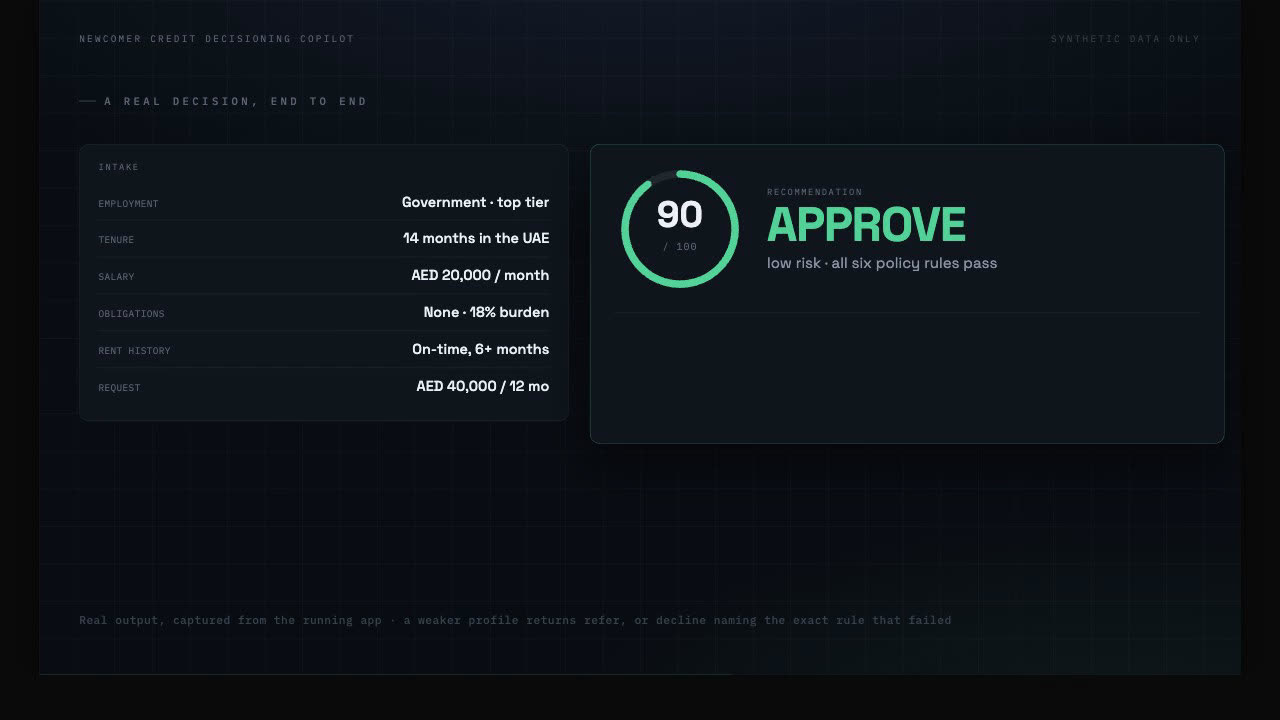
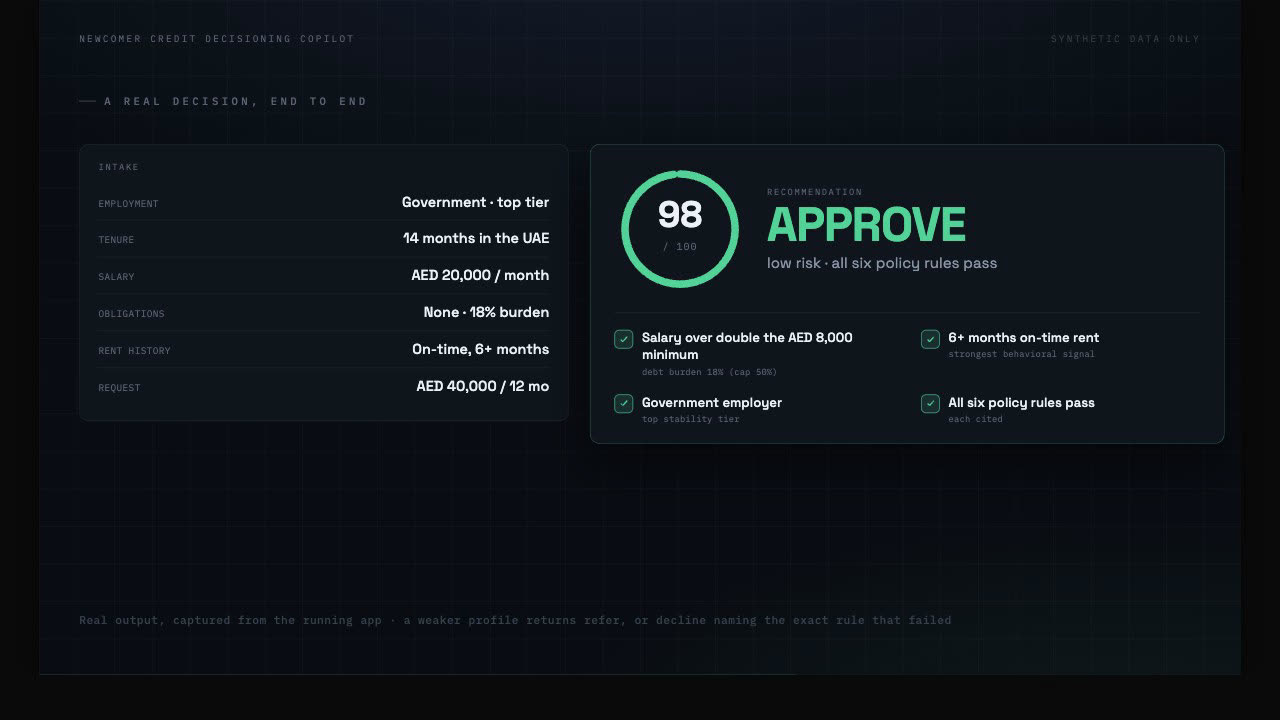
Social card with play-button overlay + correct 98 poster frame
Use the settled APPROVE 98/100 frame for the poster (was mid-count 90), add
docs/og-card.jpg (poster + play triangle + '90-second film' label), and point
og:image at it so the Featured tile reads as a watchable film.

diff --git a/docs/index.html b/docs/index.html
@@ -10,7 +10,7 @@
 <meta property="og:url" content="https://mxjoshi.github.io/newcomer-credit-copilot/">
 <meta property="og:title" content="Newcomer Credit Copilot · Case Study">
 <meta property="og:description" content="Approve / decline / refer for a thin-file expat, with a plain-language rationale and a deterministic score the AI cannot move. Synthetic data only.">
-<meta property="og:image" content="https://mxjoshi.github.io/newcomer-credit-copilot/poster.jpg">
+<meta property="og:image" content="https://mxjoshi.github.io/newcomer-credit-copilot/og-card.jpg">
 <meta name="twitter:card" content="summary_large_image">
 
 <link rel="preconnect" href="https://fonts.googleapis.com">
